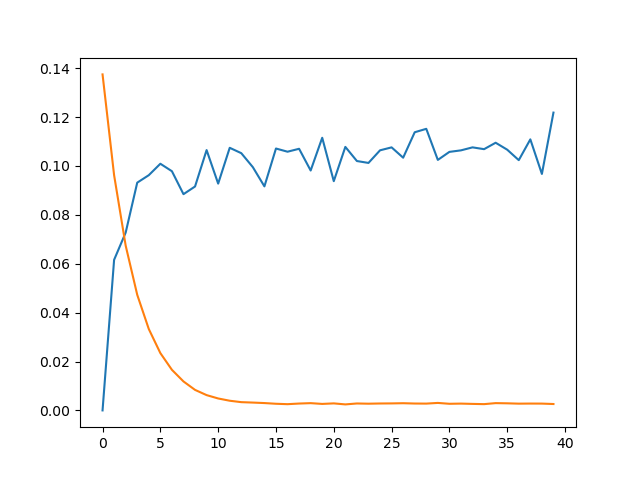
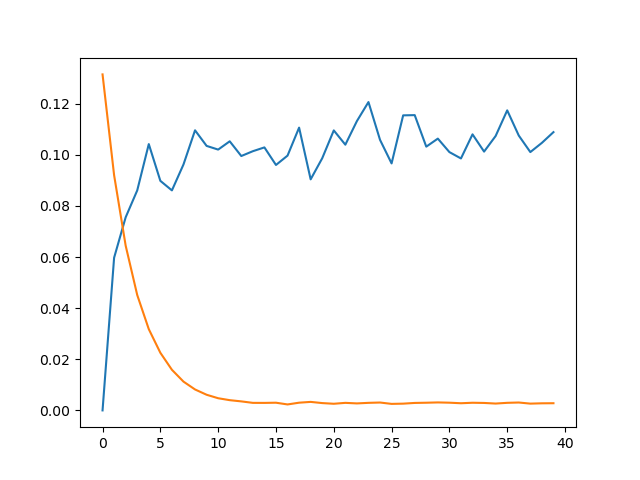
wip

diff --git a/main.py b/main.py
@@ -167,7 +167,7 @@ parser.add_argument(
 parser.add_argument(
     '--trace-decay',
     type=float,
-    default=0.5,
+    default=None,
     help='decay factor for traces')
 parser.add_argument(
     '--directory',
@@ -213,7 +213,7 @@ args = parser.parse_args()
 # New this should create consistency as we change the number of steps
 if args.dt==None:
     # args.dt = 1-(2**(-20/args.T))
-    args.dt = 1-np.exp(-args.step/args.tau_dymamic)
+    args.dt = 1-np.exp(-args.step/args.tau_dynamic)
     print("dt = ",args.dt)
 
 if args.trace_decay==None:
